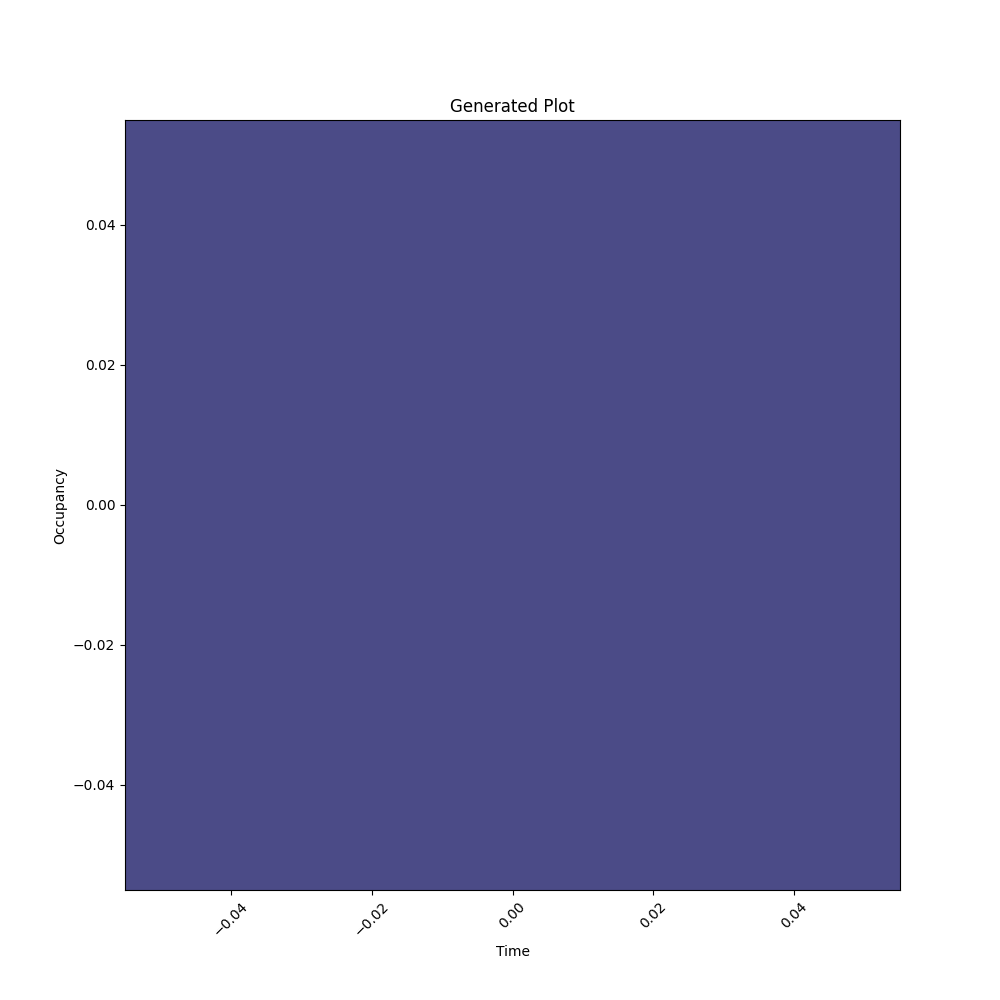
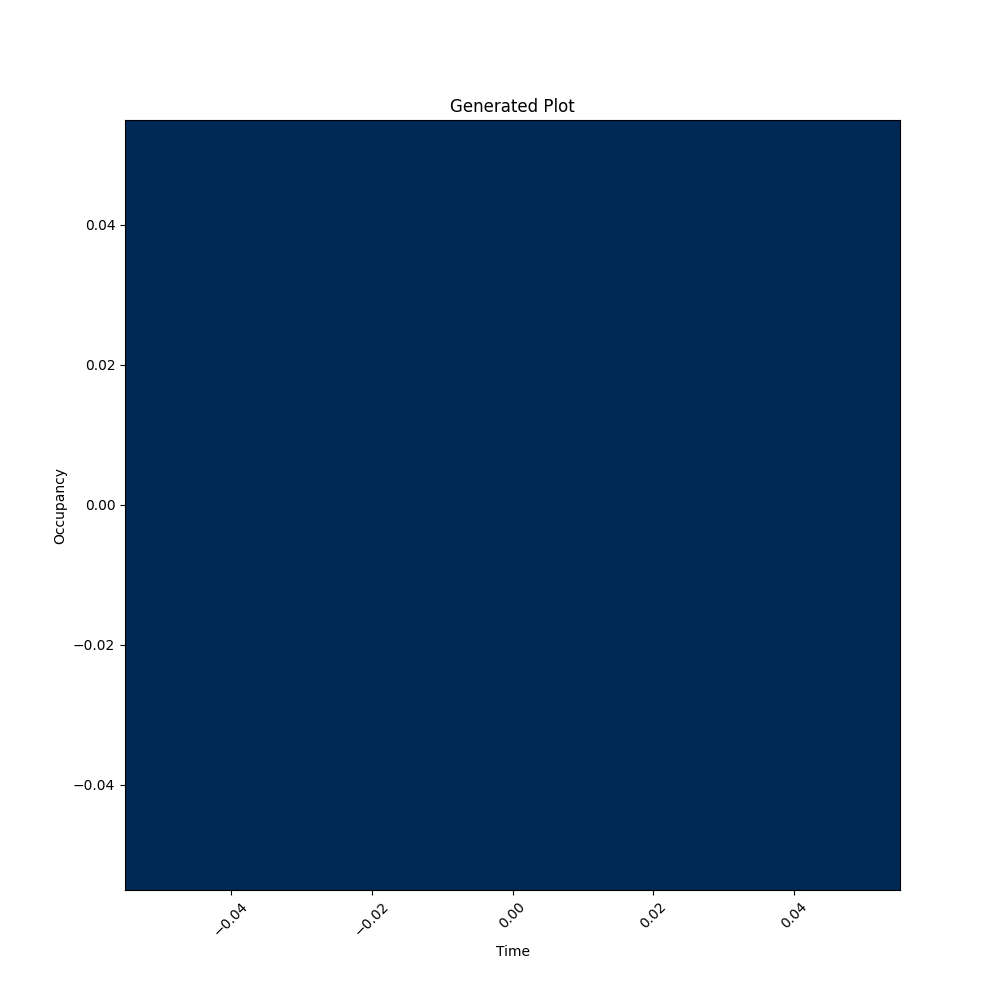
Ui changes and added optimal time to go to the arc and rmoving unnecary brackets and quotes from elements

diff --git a/frontend/src/app/page.tsx b/frontend/src/app/page.tsx
@@ -8,11 +8,13 @@ import {
   CardTitle,
   CardContent,
 } from "@/components/ui/card"
+import { time } from "console";
 
 interface PlotInfo {
   occupancy: string
   timeData: Record<string, string>
   time: string
+  bestTime: string
 }
 
 export default function HomePage() {
@@ -41,7 +43,8 @@ export default function HomePage() {
             />
           <p className="text-sm text-muted-foreground text-center">
             Current occupancy: <strong>{plotInfo.occupancy}</strong><br />
-            Time: <span className="italic">{plotInfo.time}</span>
+            Time: <span className="italic">{plotInfo.time}</span><br />
+            Best Time To Visit: <span className="italic">{plotInfo.bestTime}</span>
           </p>
           <div className="w-full mt-4">
             <h3 className="text-sm font-semibold mb-1">History</h3>

diff --git a/backend/app.py b/backend/app.py
@@ -51,12 +51,12 @@ def generate_plot():
         number = int(number[2:5])
         intOccupants.append(number)
 
-    bar_colors = ['#393b37'] * len(time)
+    bar_colors = ['#FFD100'] * len(time)
     ax.bar(time, intOccupants, color=bar_colors)
     ax.set_xlabel('Time')
     ax.set_ylabel('Occupancy')
     ax.set_title('Generated Plot')
-    ax.set_facecolor("#4b4b87")
+    ax.set_facecolor("#002855")
     
     ax.tick_params(axis='x', rotation=45)  # Rotate x-axis labels for readability
 
@@ -70,7 +70,16 @@ scheduler.add_job(fetchData, 'interval', minutes=1)
 scheduler.add_job(generate_plot, 'interval', minutes=1)
 scheduler.start()
 
-
+def findBestTime():
+    """
+    Find the best time to visit based on occupancy data.
+    """
+    # Convert timeData to a list of tuples (time, occupancy)
+    occupancy_list = [(time, int(occupancy[2:5])) for time, occupancy in timeData.items()]
+    # Sort by occupancy
+    occupancy_list.sort(key=lambda x: x[1])
+    # Return the time with the lowest occupancy
+    return occupancy_list[0] if occupancy_list else None
 
 @app.route('/')
 def arc():
@@ -88,11 +97,13 @@ def send_info():
     fetchData()  # Ensure the data is updated
     generate_plot()  # Generate and save the plot
     webscraper.getOccupancy()
+    findBestTime()
     # Render the template with occupancy data
     return jsonify({
             'occupancy': occupancyOnRefresh.strip("[]'"),
             'timeData': timeData,
-            'time': webscraper.getTime()
+            'time': webscraper.getTime(),
+            'best time': findBestTime()
         })
 
 if __name__ == '__main__':

diff --git a/backend/webscraper.py b/backend/webscraper.py
@@ -20,10 +20,21 @@ def getOccupancy():
     return occupancy
 
 def getTime(): ####
-    #getting current time
+    # Getting current time in 24-hour format
     currentTime = time.localtime()
-    formattedTime = time.strftime("%H:%M", currentTime)
+    hour = currentTime.tm_hour
+    minute = currentTime.tm_min
+
+    # Convert to 12-hour format with AM/PM
+    am_pm = "AM" if hour < 12 else "PM"
+    hour_12 = hour % 12
+    if hour_12 == 0:
+        hour_12 = 12  # 0 becomes 12 in 12-hour format
+
+    formattedTime = f"{hour_12}:{minute:02d} {am_pm}"
     return formattedTime
+
+
 def lastUpdateTime():
     lastUpdate = time()
     return lastUpdate
